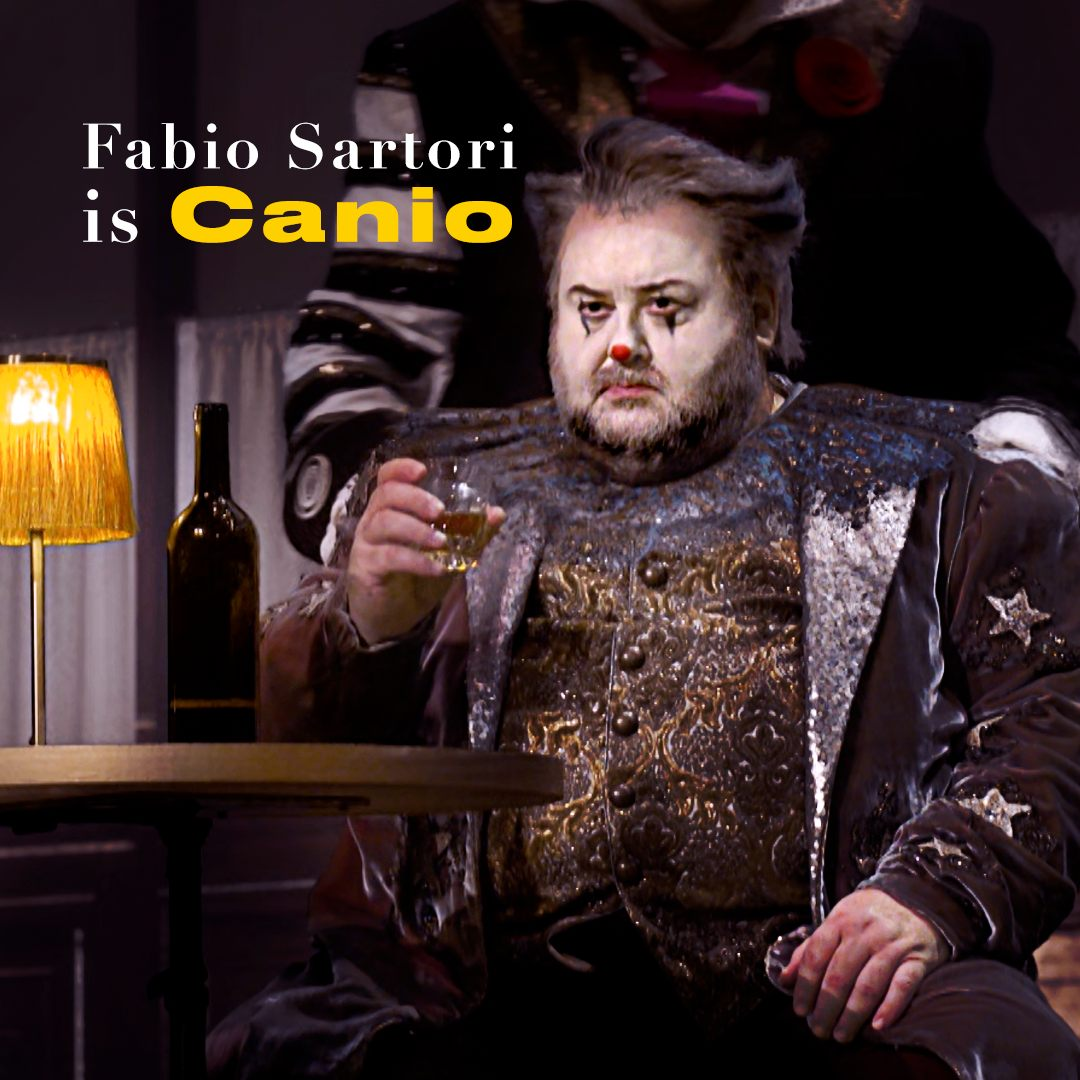
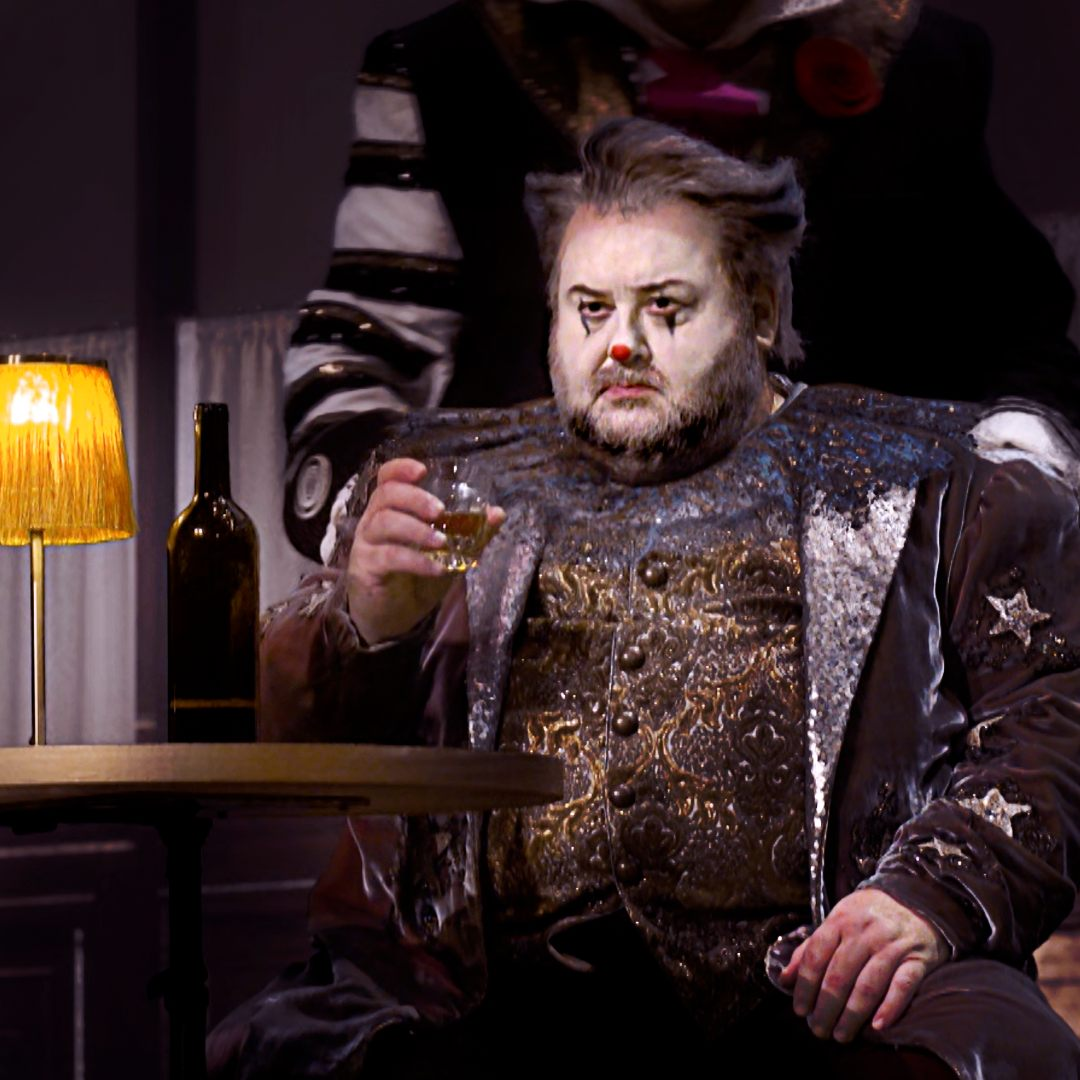
Fix Pagliacci: replace Canio photo (remove text overlay), fix figurini cropping with portrait aspect-ratio and object-fit:contain

Changed region(s): [[0.0611, 0.1222, 0.4889, 0.2444]]

diff --git a/theatre/pagliacci.html b/theatre/pagliacci.html
@@ -182,16 +182,16 @@
           <p style="font-family:var(--font-serif);font-size:1.05rem;line-height:1.8;color:var(--ink2);">Les figurines d&rsquo;Angela Buscemi pour Pagliacci m&ecirc;lent la tradition de la commedia dell&rsquo;arte avec une sensibilit&eacute; contemporaine. Chaque figurine capture la double nature des personnages de Leoncavallo &mdash; artistes sur sc&egrave;ne et &acirc;mes tourment&eacute;es derri&egrave;re le masque &mdash; &agrave; travers des couleurs audacieuses, des silhouettes th&eacute;&acirc;trales et des d&eacute;tails d&rsquo;&eacute;poque m&eacute;ticuleux, r&eacute;imagin&eacute;s pour une production o&ugrave; r&eacute;alit&eacute; et illusion s&rsquo;entrelacent constamment.</p>
         </div>
       </div>
-      <div class="gallery-grid">
-        <div class="gallery-item"><img src="../images/pagliacci-figurino-nedda.jpg" alt="Figurino — Nedda by Angela Buscemi"></div>
-        <div class="gallery-item"><img src="../images/pagliacci-figurino-nedda-2.jpg" alt="Figurino — Nedda (second costume) by Angela Buscemi"></div>
-        <div class="gallery-item"><img src="../images/pagliacci-figurino-colombina.jpg" alt="Figurino — Colombina by Angela Buscemi"></div>
-        <div class="gallery-item"><img src="../images/pagliacci-figurino-canio.jpg" alt="Figurino — Canio by Angela Buscemi"></div>
-        <div class="gallery-item"><img src="../images/pagliacci-figurino-tonio.jpg" alt="Figurino — Tonio by Angela Buscemi"></div>
-        <div class="gallery-item"><img src="../images/pagliacci-figurino-taddeo.jpg" alt="Figurino — Taddeo by Angela Buscemi"></div>
-        <div class="gallery-item"><img src="../images/pagliacci-figurino-arlecchino.jpg" alt="Figurino — Arlecchino by Angela Buscemi"></div>
-        <div class="gallery-item"><img src="../images/pagliacci-figurino-acrobati-01.jpg" alt="Figurino — Acrobati by Angela Buscemi"></div>
-        <div class="gallery-item"><img src="../images/pagliacci-figurino-acrobati-02.jpg" alt="Figurino — Acrobati (second design) by Angela Buscemi"></div>
+      <div class="gallery-grid" style="grid-template-columns:repeat(3,1fr);gap:6px;">
+        <div class="gallery-item" style="aspect-ratio:3/4;background:#f5f3ef;"><img src="../images/pagliacci-figurino-nedda.jpg" alt="Figurino — Nedda by Angela Buscemi" style="object-fit:contain;"></div>
+        <div class="gallery-item" style="aspect-ratio:3/4;background:#f5f3ef;"><img src="../images/pagliacci-figurino-nedda-2.jpg" alt="Figurino — Nedda (second costume) by Angela Buscemi" style="object-fit:contain;"></div>
+        <div class="gallery-item" style="aspect-ratio:3/4;background:#f5f3ef;"><img src="../images/pagliacci-figurino-colombina.jpg" alt="Figurino — Colombina by Angela Buscemi" style="object-fit:contain;"></div>
+        <div class="gallery-item" style="aspect-ratio:3/4;background:#f5f3ef;"><img src="../images/pagliacci-figurino-canio.jpg" alt="Figurino — Canio by Angela Buscemi" style="object-fit:contain;"></div>
+        <div class="gallery-item" style="aspect-ratio:3/4;background:#f5f3ef;"><img src="../images/pagliacci-figurino-tonio.jpg" alt="Figurino — Tonio by Angela Buscemi" style="object-fit:contain;"></div>
+        <div class="gallery-item" style="aspect-ratio:3/4;background:#f5f3ef;"><img src="../images/pagliacci-figurino-taddeo.jpg" alt="Figurino — Taddeo by Angela Buscemi" style="object-fit:contain;"></div>
+        <div class="gallery-item" style="aspect-ratio:3/4;background:#f5f3ef;"><img src="../images/pagliacci-figurino-arlecchino.jpg" alt="Figurino — Arlecchino by Angela Buscemi" style="object-fit:contain;"></div>
+        <div class="gallery-item" style="aspect-ratio:3/4;background:#f5f3ef;"><img src="../images/pagliacci-figurino-acrobati-01.jpg" alt="Figurino — Acrobati by Angela Buscemi" style="object-fit:contain;"></div>
+        <div class="gallery-item" style="aspect-ratio:3/4;background:#f5f3ef;"><img src="../images/pagliacci-figurino-acrobati-02.jpg" alt="Figurino — Acrobati (second design) by Angela Buscemi" style="object-fit:contain;"></div>
       </div>
     </div>
 
